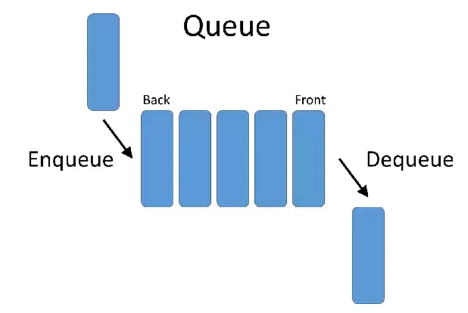
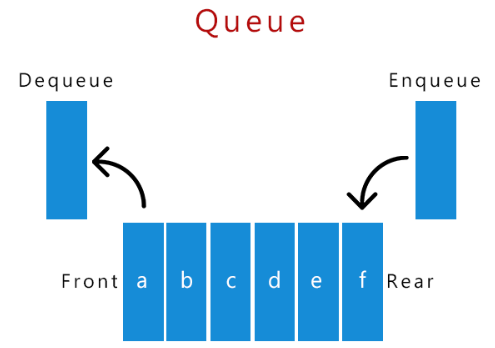
Stack, Queue 장단점 정리

diff --git a/src/main/java/org/example/datastructure/Stack과 Queue.md b/src/main/java/org/example/datastructure/Stack과 Queue.md
@@ -6,21 +6,39 @@
 가장 마지막으로 들어간 데이터가 가장 첫 번 째로 나오는 성질을 가진 자료 구조
 - LIFO(Last in First Out) 구조
 - 삽입 및 삭제에 O(1), 탐색에 O(n)의 시간 복잡도를 가진다.
+- 한 쪽 방향에만 자료를 추가, 삭제 할 수 있으며 가장 마지막에 삽입된 자료의 위치를 `top`이라 한다.
+  - Stakc은 `top`에만 접근이 가능하기 때문에 그 외의 위치에 대한 데이터 추가 및 삭제가 불가능하다.
 - 웹 브라우저 방문 기록, 실행 취소, 역순 문자열 만들기, 후위 표기법 계산 등에 쓰인다.
 - Push : 데이터를 스택의 맨 위에 추가.
 - Pop : 스택의 맨 위에 있는 데이터를 제거.
 
 ![img.png](img/Stack.png)
 
+### + 장점
+- top 위치의 데이터에 바로 접근하므로 데이터 삽입, 삭제의 시간 복잡도가 O(1)로 빠르다.
+
+### - 단점
+- 후입선출 구조이기 때문에 특정 위치의 데이터에 랜텀 엑세스가 어렵다.
+- 특정 위치의 데이터에 바로 접근하려면 맨위에서부터 차례로 pop하는 방식을 사용해야 한다.
+
 ---
 
 ## Queue
 먼저 들어간 원소가 먼저 나오는 구조이다.
 - FIFO(First in First out) 구조
-- 먼저 삽입된 요소가 먼저 제거되고, 나중에 삽입된 요소는 나중에 제거된다.
+- 한 쪽에서 삽입, 반대 쪽에서 삭제가 이루어진다.
+  - 삽입이 이루어지는 쪽을 `rear`, 데이터가 삭제되는 쪽을 `front`라고 한다.
 - 대기열, 버퍼, 작업 스케줄링 등에 사용된다.
 - 큐의 활용분야로 안드로이드의 경우, 루퍼의 메시지 큐가 예시 중 하나이다.
 - Enqueue(삽입) : 큐의 뒤쪽(마지막)에 요소를 추가
 - Dequeue(제거) : 큐의 앞쪽(첫 번째)에서 요소를 제거
 
 ![img.png](img/Queue.png)
+
+### + 장점
+- front 위치의 데이터에 바로 접근하므로 데이터 삽입, 삭제의 시간 복잡도가 O(1)로 빠르다.
+
+### - 단점
+- 큐 역시 front가 아닌 중간에 위치한 데이터 접근이 불가능하다.
+- Queue를 일반 Array로 구현하면 dequeue의 시간복잡도가 O(n)로 느리다.
+  - 이로 인해 사용되지 않는 메모리가 낭비될 수 있다.
